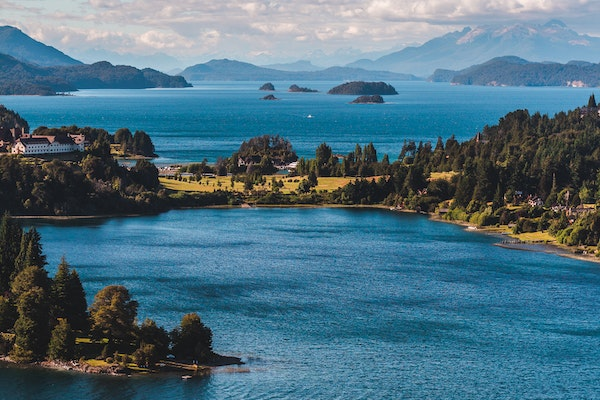
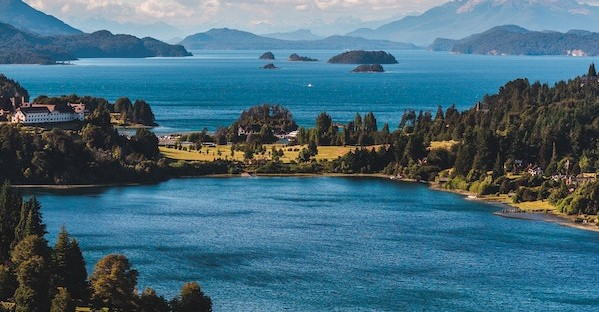
agrego img spots

diff --git a/spots.html b/spots.html
@@ -76,7 +76,7 @@
             <section class="py-5 bg-light" id="scroll">
                 <div class="container px-5 my-5">
                     <div class="row gx-5 align-items-center">
-                        <div class="col-lg-6 "><img class="img-fluid rounded mb-5 mb-lg-0" src="/img/vista-laguna-el-trebol.webp" alt="..." /></div>
+                        <div class="col-lg-6 "><img class="img-fluid rounded mb-5 mb-lg-0" src="/img/Morenito-Laguna-ElTrebol.jpg" alt="..." /></div>
                         <div class="col-lg-6">
                             <h2 class="fw-bolder">Laguna del Trebol</h2>
                             <p class="lead fw-normal text-muted mb-0">Lorem ipsum dolor sit amet consectetur adipisicing elit. Iusto est, ut esse a labore aliquam beatae expedita. Blanditiis impedit numquam libero molestiae et fugit cupiditate, quibusdam expedita, maiores eaque quisquam.</p>
@@ -92,7 +92,7 @@
             <section class="py-2">
                 <div class="container px-5 my-5">
                     <div class="row gx-5 align-items-center">
-                        <div class="col-lg-6 order-first order-lg-last "><img class="img-fluid rounded mb-5 mb-lg-0" src="https://dummyimage.com/600x400/343a40/6c757d" alt="..." /></div>
+                        <div class="col-lg-6 order-first order-lg-last "><img class="img-fluid rounded mb-5 mb-lg-0" src="/img/mirador-brazo-tristeza-bariloche-org.jpg" alt="..." /></div>
                         <div class="col-lg-6">
                             <h2 class="fw-bolder">Mirador del Tristeza</h2>
                             <p class="lead fw-normal text-muted mb-0">Lorem ipsum dolor sit amet consectetur adipisicing elit. Iusto est, ut esse a labore aliquam beatae expedita. Blanditiis impedit numquam libero molestiae et fugit cupiditate, quibusdam expedita, maiores eaque quisquam.</p>
@@ -124,7 +124,7 @@
             <section class="py-2">
                 <div class="container px-5 my-5">
                     <div class="row gx-5 align-items-center">
-                        <div class="col-lg-6 order-first order-lg-last "><img class="img-fluid rounded mb-5 mb-lg-0" src="https://dummyimage.com/600x400/343a40/6c757d" alt="..." /></div>
+                        <div class="col-lg-6 order-first order-lg-last "><img class="img-fluid rounded mb-5 mb-lg-0" src="/img/nirihuau.webp" alt="..." /></div>
                         <div class="col-lg-6">
                             <h2 class="fw-bolder">Río Ñirihuau</h2>
                             <p class="lead fw-normal text-muted mb-0">Lorem ipsum dolor sit amet consectetur adipisicing elit. Iusto est, ut esse a labore aliquam beatae expedita. Blanditiis impedit numquam libero molestiae et fugit cupiditate, quibusdam expedita, maiores eaque quisquam.</p>
@@ -138,9 +138,9 @@
             </section>   
             <!-- About section five-->
             <section class="py-2 bg-light" id="scroll-target">
-                <div class="container px-5 my-5">
-                    <div class="row gx-5 align-items-center">
-                        <div class="col-lg-6 "><img class="img-fluid rounded mb-5 mb-lg-0" src="https://dummyimage.com/600x400/343a40/6c757d" alt="..." /></div>
+                <div class="container px-5 my-5" >
+                    <div class="row gx-5 align-items-center" >
+                        <div class="col-lg-6 "><img class="img-fluid rounded mb-5 mb-lg-0" src="/img/colonia-suiza.jpg" alt="colonia suiza" style="height: 320px;" /></div>
                         <div class="col-lg-6">
                             <h2 class="fw-bolder">Colonia Suiza</h2>
                             <p class="lead fw-normal text-muted mb-0">Lorem ipsum dolor sit amet consectetur adipisicing elit. Iusto est, ut esse a labore aliquam beatae expedita. Blanditiis impedit numquam libero molestiae et fugit cupiditate, quibusdam expedita, maiores eaque quisquam.</p>
@@ -156,7 +156,7 @@
             <section class="py-2">
                 <div class="container px-5 my-5">
                     <div class="row gx-5 align-items-center">
-                        <div class="col-lg-6 order-first order-lg-last "><img class="img-fluid rounded mb-5 mb-lg-0" src="/img/MB7-Lago-Gutiérrez-desde-Piedra-de-Habsburgo.jpg" alt="..." /></div>
+                        <div class="col-lg-6 order-first order-lg-last "><img class="img-fluid rounded mb-5 mb-lg-0" src="/img/MB7-Lago-Gutiérrez-desde-Piedra-de-Habsburgo.jpg" alt="..." style="height: 400px;"/></div>
                         <div class="col-lg-6">
                             <h2 class="fw-bolder">Piedra de Hasburgo</h2>
                             <p class="lead fw-normal text-muted mb-0">Lorem ipsum dolor sit amet consectetur adipisicing elit. Iusto est, ut esse a labore aliquam beatae expedita. Blanditiis impedit numquam libero molestiae et fugit cupiditate, quibusdam expedita, maiores eaque quisquam.</p>
